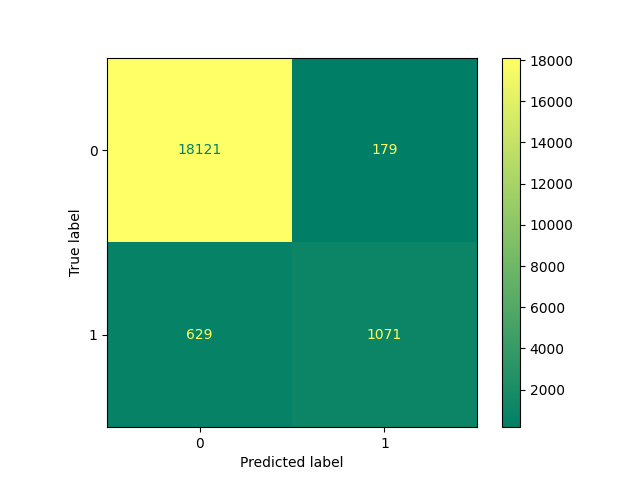
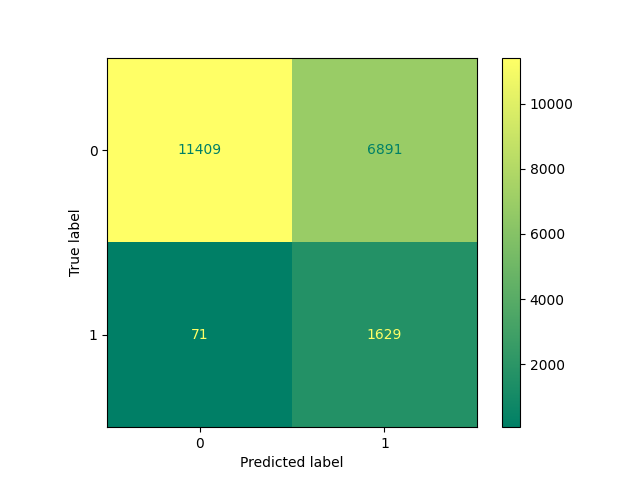
Change baseline model to GaussianNB

diff --git a/src/diabetes_prediction/train.py b/src/diabetes_prediction/train.py
@@ -3,7 +3,6 @@ import json
 from pathlib import Path
 
 import joblib
-from sklearn.linear_model import LogisticRegression
 from sklearn.pipeline import make_pipeline
 
 from .config import config
@@ -28,7 +27,7 @@ def train(data_path):
     x_train, y_train = feature_target_split(data_path)
     full_pipeline = make_pipeline(
         pipeline,
-        LogisticRegression()
+        config.BASELINE_MODEL
     )
 
     full_pipeline.fit(x_train, y_train)

diff --git a/tests/test_predict.py b/tests/test_predict.py
@@ -8,8 +8,6 @@ from diabetes_prediction.predict import make_prediction
 @pytest.fixture
 def single_prediction():
     """ This function will predict the result for a single record"""
-    #data_path = config.DATA_PATH / "prepared" / config.TEST_FILE
-    #df_test = pd.read_csv(data_path)
     single_test = pd.Series(config.TEST_INSTANCE)
     result = make_prediction([single_test])
     return result

diff --git a/src/diabetes_prediction/config/config.py b/src/diabetes_prediction/config/config.py
@@ -1,5 +1,6 @@
 from pathlib import Path
 
+from sklearn.naive_bayes import GaussianNB
 
 RANDOM_STATE = 147
 
@@ -23,6 +24,8 @@ CATEGORICAL_FEATURES = ["gender", "smoking_history"]
 
 # Binary (0/1) features
 BINARY_FEATURES = ["hypertension", "heart_disease"]
+
+BASELINE_MODEL = GaussianNB()
 
 # First data point in test set
 TEST_INSTANCE = {

diff --git a/README.md b/README.md
@@ -28,13 +28,26 @@ The data corresponds to demographic and health information.
 
 Source: Kaggle
 
+## Model requirements
+
+### Performance
+Since our business problem is related to healthcare and medical diagnosis,
+we would ideally like to miss as few Diabetes (positive) cases as possible.
+Therefore, we're aiming for maximum Recall, without sacrificing the overall
+model performance.
+
+### Interpretability
+Considering the fact that healthcare is a very sensitive area, we'll try to
+put special emphasis on model interpretability, to cover Responsible AI
+requirements generally associated with Healthcare and Finance domains.
+
 ## Model performance
 
 |            | Train  | Test   |
 |------------|--------|--------|
-| Precision  | 0.8675 | 0.8568 |
-| Recall     | 0.6292 | 0.63   |
-| F1 Score   | 0.7294 | 0.7261 |
+| Recall     | 0.9607 | 0.9582 |
+| Precision  | 0.1924 | 0.1912 |
+| F1 Score   | 0.3205 | 0.3188 |
 
 ### Confusion Matrix
 ![Confusion Matrix](./src/diabetes_prediction/metrics/CM.png)
